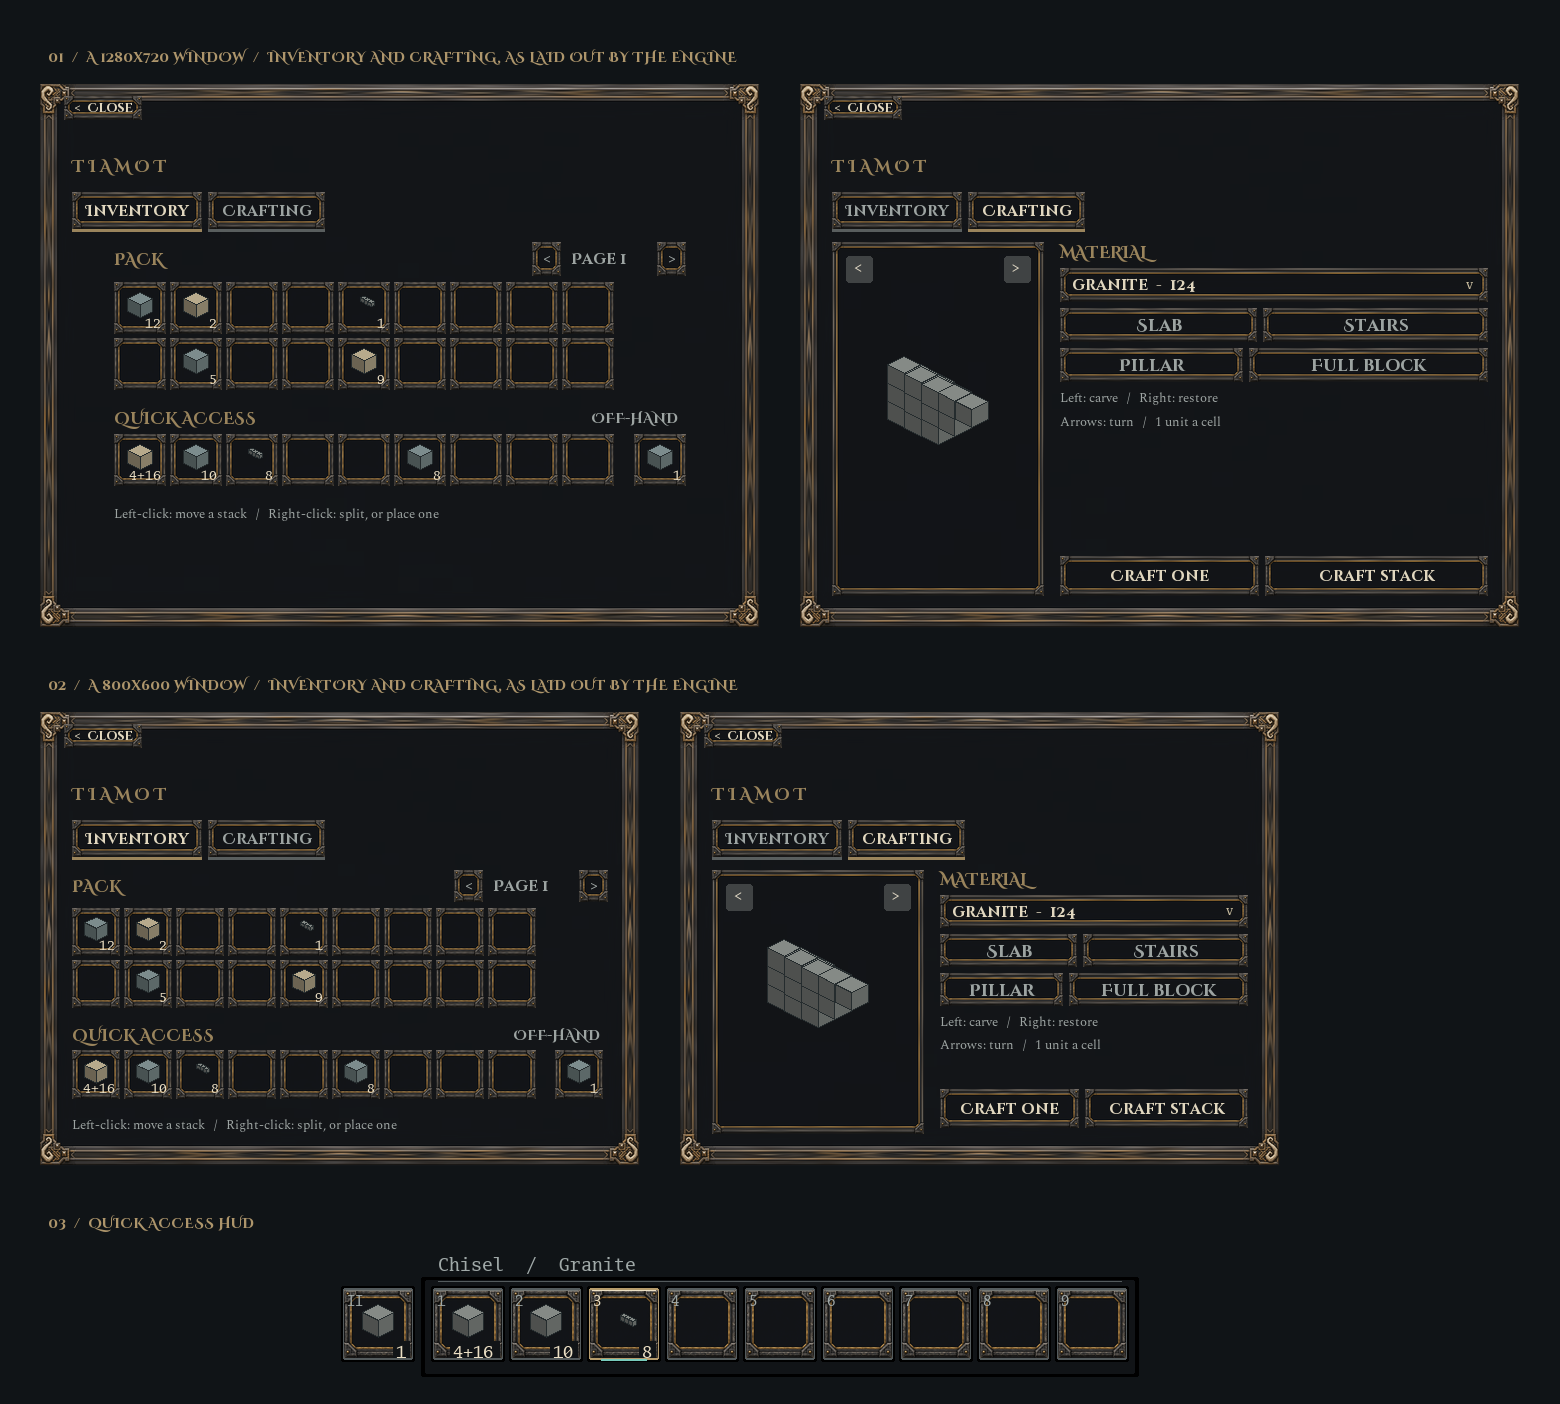
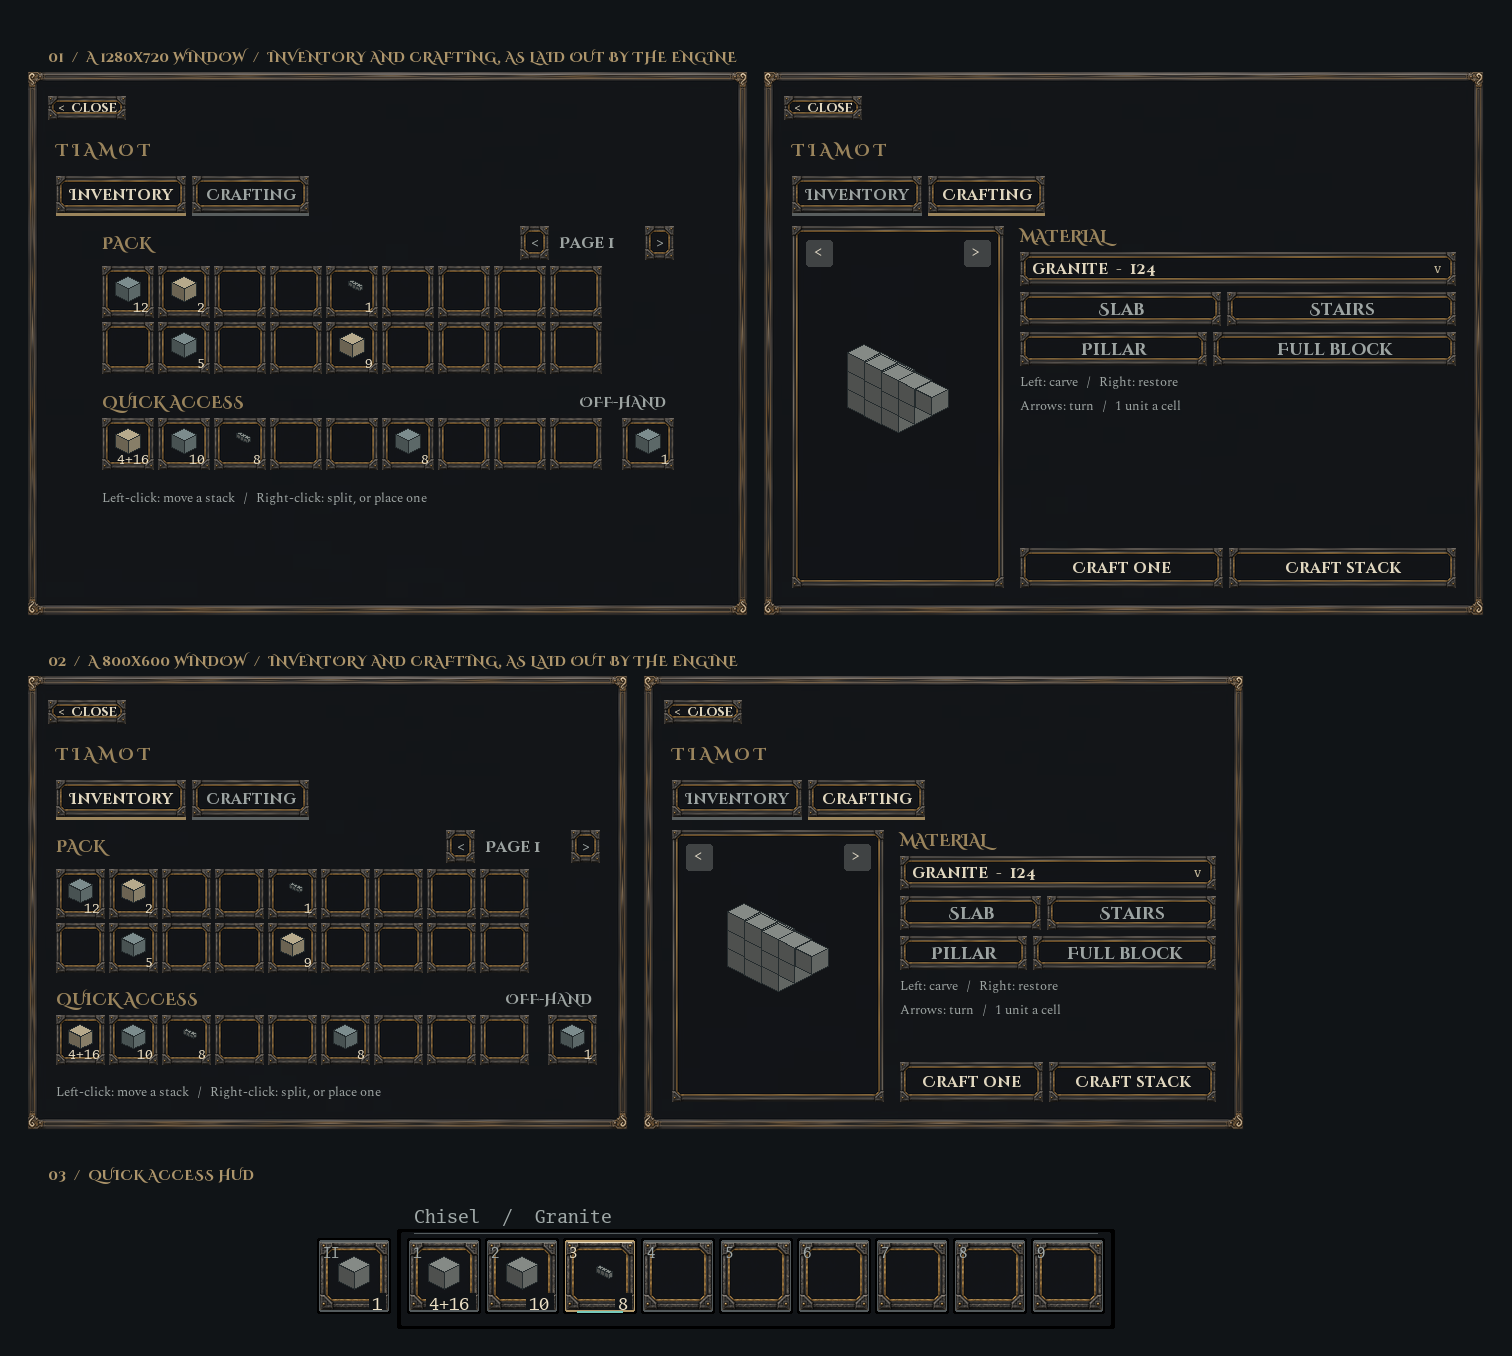
feat: Spectral on chat and prose, and the room the engine's frame gives back
Engine 86dcbb9 landed asks 9, 10 and 11. mod.toml's [theme] names Spectral as
its text_font, so chat, text fields and the engine's own prose are in the text
face and Cinzel keeps headings and buttons. The native check asserts it.

The engine now draws every frame 18 points deep, whatever the art's
resolution, and keeps a sheet's contents inside that border, so the bar and
the engine's screens are off the trim. That costs the room 24 points each
way, and frame_padding, which was 24 only to escape the trim, is now 8, so
the screens are roomier than before. The check lays screens into the new
room, and the preview draws the frame at its new depth.

Ask 9's other half, descriptions a size down, did not land and is open as 12.
Both copies of the asks sheet say so.

Changed region(s): [[0.0, 0.031, 0.9947, 0.8363], [0.1865, 0.8982, 0.746, 0.9912], [0.0622, 0.8673, 0.1554, 0.8982]]

diff --git a/tools/render_preview.py b/tools/render_preview.py
@@ -37,6 +37,7 @@ MONO = str(ENGINE / 'crates/client/assets/third-party/go-font/Go-Mono.ttf')
 textures = {h: Image.open(ROOT / p).convert('RGB') for h, p in data['textures'].items()}
 
 MARGIN, GAP, BAR = 48, 56, 36
+FRAME_BORDER = 18  # client::panel's, whatever the art's resolution
 screens = data['screens']
 W = MARGIN * 2 + GAP + 2 * screens[0]['room'][0]
 H = MARGIN + sum(BAR + 44 + s["room"][1] + GAP for s in screens) + 190
@@ -78,8 +79,9 @@ def shape(x, y, w, h, mask):
                     cube(cx + (xx - z) * s * .49, cy + (xx + z) * s * .245 - yy * s * .53, s)
 
 
-def frame(hash_, x, y, w, h, sliced=True):
-    """A nine-slice, or the whole image: the corners are the outer third."""
+def frame(hash_, x, y, w, h, sliced=True, border=None):
+    """A nine-slice, or the whole image: the corners are the outer third,
+    drawn `border` pixels deep if given, or at the art's own size."""
     source = textures[hash_]
     x, y, w, h = map(round, (x, y, w, h))
     if w < 2 or h < 2:
@@ -87,7 +89,8 @@ def frame(hash_, x, y, w, h, sliced=True):
     if not sliced:
         im.paste(source.resize((w, h), Image.Resampling.LANCZOS), (x, y))
         return
-    ex, ey = min(source.width / 3, w / 2), min(source.height / 3, h / 2)
+    ex, ey = (border or source.width / 3), (border or source.height / 3)
+    ex, ey = min(ex, w / 2), min(ey, h / 2)
     xs, ys, uv = [0, ex, w - ex, w], [0, ey, h - ey, h], [0, 1 / 3, 2 / 3, 1]
     for row in range(3):
         for column in range(3):
@@ -179,15 +182,13 @@ def sheet(x, y, w, h):
     """The engine's own chrome around a screen, wearing mod.toml's [theme]:
     the ornate frame around the whole sheet, the iron frame on Close.
 
-    The frame goes where the client paints it: the window's content expanded
-    by egui's window margin, so its outer edge is about 8 pixels from the
-    room. Drawn any further out, the preview hides the trim the bar and the
-    engine's own screens are sitting on (engine ask 10)."""
-    left, top, right, bottom = x - 8, y - BAR - 8, x + w + 7, y + h + 7
+    The frame goes where the client paints it: FRAME_BORDER (18) deep, its
+    art scaled to that depth, around contents inset by the same 18."""
+    left, top, right, bottom = x - 20, y - BAR - 20, x + w + 19, y + h + 19
     d.rectangle((left, top, right, bottom), fill='#131619')
-    frame(THEMED['ornate-panel.png'], left, top, right - left, bottom - top)
-    frame(THEMED['iron-slot.png'], x + 16, y - BAR + 4, 78, 24)
-    d.text((x + 26, y - BAR + 8), '<  Close', font=font(12, DISPLAY), fill='#e1d7bf')
+    frame(THEMED['ornate-panel.png'], left, top, right - left, bottom - top, border=FRAME_BORDER)
+    frame(THEMED['iron-slot.png'], x, y - BAR + 4, 78, 24)
+    d.text((x + 10, y - BAR + 8), '<  Close', font=font(12, DISPLAY), fill='#e1d7bf')
 
 
 top = MARGIN

diff --git a/tests/native/src/main.rs b/tests/native/src/main.rs
@@ -759,14 +759,21 @@ impl ui::Measure for Ruler {
 /// The room a screen gets in a window `w` by `h` points: the client's
 /// `panel::size_clear_of` with this mod's HUD reserve (converted from the
 /// HUD's 1080-tall canvas as `panel::reserve_points` does), less the sheet's
-/// margins and its bar with Close on it.
+/// margins and its bar with Close on it. A framed sheet's margin is the
+/// client's `FRAME_BORDER`, 18 points a side where egui's own is 6, so a
+/// themed sheet has 24 fewer each way than a plain one.
 fn room(w: f32, h: f32) -> (i32, i32) {
     let reserve = (HUD_RESERVE / 1080.0 * h).clamp(0.0, h / 2.0);
     let height = (h * 0.75).min(h - reserve).max(120.0);
     let width = (height * 4.0 / 3.0).min(w * 0.9).max(160.0);
     let height = (width * 3.0 / 4.0).min(height).max(120.0);
-    ((width - 16.0) as i32, (height - 48.0) as i32)
+    ((width - 16.0 - FRAMED) as i32, (height - 48.0 - FRAMED) as i32)
 }
+
+/// What a themed sheet's frame takes from each dimension beyond egui's own
+/// margin: `2 * (FRAME_BORDER - 6)`. This mod declares a frame, so every
+/// sheet it draws is framed.
+const FRAMED: f32 = 24.0;
 
 /// config.lua's `hud_reserve`, checked against what the mod registers in
 /// `the_look_is_declared`.
@@ -862,11 +869,18 @@ fn the_look_is_declared() {
     let dir = mod_dir();
     let manifest = tiamot_core::modload::ModManifest::load(&dir).expect("mod.toml loads and validates");
     let theme = manifest.theme.expect("mod.toml declares a [theme]");
-    for (what, file) in [("font", &theme.font), ("sheet", &theme.sheet), ("button", &theme.button)] {
+    for (what, file) in [
+        ("font", &theme.font),
+        ("text_font", &theme.text_font),
+        ("sheet", &theme.sheet),
+        ("button", &theme.button),
+    ] {
         let file = file.as_deref().unwrap_or_else(|| panic!("the theme names no {what}"));
         assert!(dir.join(file).is_file(), "the theme's {what} is not a file: {file}");
     }
     assert_eq!(theme.sheet.as_deref(), Some("textures/ornate-panel.png"));
+    // Chat and the engine's prose in the face hints are drawn in, not Cinzel.
+    assert_eq!(theme.text_font.as_deref(), Some("fonts/Spectral-Regular.ttf"));
     let c = &theme.colours;
     for (what, colour) in [
         ("text", &c.text),

diff --git a/docs/engine-asks.md b/docs/engine-asks.md
@@ -10,86 +10,21 @@ What the inventory has needed from the engine, found by building it. Each entry
 says what was seen, why the mod cannot fix it, and the smallest engine change
 that would. Newest first. Items are removed when they land.
 
-## 11. Resting widgets wear a faint outline, and a text field is not the sheet (2026-09-18)
+## 12. Descriptions a size down (2026-09-18, split from 9)
 
-**Seen, in the window.** Under this theme a text field cannot be found: the
-chat input, and a mod's `text_input` (`dialog.rs`).
-`Theme::apply` sets `extreme_bg_color`, the fill behind a text field, to
-`background`, which is the sheet's own fill, and egui's resting widgets have no
-stroke, so the field is the sheet. Tick boxes, dropdowns, sliders and the
-unframed glyph buttons in a dialog (`dialog.rs`, the shape editor's arrows)
-are only a shade apart from the sheet and read as text, not controls. Buttons
-that wear the theme's `button` frame are fine; the rest should match them.
+**Seen, in the window.** The start screen's secondary lines ("Nothing found
+yet. A world has to be opened to the LAN to appear here.", "Each world keeps
+its own selection…", a mod's description) are drawn at full body size, the
+same as the controls they describe, so a page reads as one undifferentiated
+block. They are the `ui.weak(...)` calls: ten in `front.rs`, two in
+`main.rs`.
 
-**Smallest change, and no sixth colour.** In `apply`, when `accent` is set:
-`widgets.inactive.bg_stroke` and `widgets.noninteractive.bg_stroke` become a
-1-point stroke in `accent`. When `button` is set, `extreme_bg_color` takes
-`button` rather than `background`, so a field is a shade above the sheet.
-Hovered and active keep their own strokes. This mod's accent is `#5c4c30`, a
-dark brass that is just visible on `#131619`: subtle, as asked for.
-`noninteractive.bg_stroke` also draws egui's separators, which would then be
-brass too, and that is wanted.
+Asked as the second half of 9. `86dcbb9` landed the first half, `text_font`,
+and these lines are in Spectral now, but still at body size.
 
-## 10. A themed sheet's contents clear its frame (2026-09-18)
-
-**Seen, in the window.** Text on the engine's own screens runs onto the ornate
-trim, and so does every sheet's bar, Close included. `panel::sheet_with`
-paints the frame at `ui.max_rect().expand(window_margin)`, so content starts
-about 6 points inside the frame's outer edge. A frame's border is a third of
-its image: 36 points for `ornate-panel.png`, whose trim runs about 18 points
-deep along the sides and 20 into the corners. The inventory's body is clear
-only because it pads itself by 24; the bar above it is not, and nothing on the
-pause, settings and start screens is.
-
-**Why the mod cannot fix it.** The frame's placement and the margin are the
-client's. Thinner art would need a trim under 6 points deep.
-
-**Smallest change.** With a frame, the content (bar and body) starts a whole
-border inside the frame's outer edge: paint the frame at
-`max_rect().expand(border)` rather than `expand(window_margin)`, where `border`
-is the same third `paint_nine_slice` draws at, and have `size_clear_of` and
-`origin_clear_of` leave that much around the sheet so the frame stays inside
-the window and above the HUD reserve. With no frame, nothing changes.
-
-**Please grow the frame outward rather than shrinking the room.** The
-inventory fits 800x600 with less than 12 points to spare. Taking 30 a side out
-of the room breaks it (measured with the native check). If the room must
-shrink, say by how much: this mod pads its tree by 24 (`frame_padding`) only to
-clear the trim, and would give most of that back once the engine clears it.
-
-## 9. A theme's second face, for text read as sentences (2026-09-18)
-
-**Seen.** `[theme] font` is one face, and `client::theme::Theme::apply` puts it
-on every egui text style. This mod's face is Cinzel Decorative, a display
-capital: right for the pause screen's buttons and a sheet's title, and hard
-reading in chat, a text field, or a settings page's descriptions. Chat is the
-worst case: `draw_chat` in `client/src/main.rs` uses the default text style, so
-every line anyone says is drawn in small capitals over the world. The theme
-also takes the client's own face away from a dialog widget that names no font,
-which the mod has worked around by naming its text face on every hint.
-
-**Why the mod cannot fix it.** Chat is the client's and runs no Lua, which is
-right. The manifest's `Theme` is `deny_unknown_fields`, so the mod has no way to
-name a second face.
-
-**Smallest change.** An optional `text_font` in `[theme]` (the name is yours),
-pushed and fetched exactly as `font` is. When it is set, `apply` puts it on
-`Body`, `Small` and `Monospace`, and `font` keeps `Heading` and `Button`; chat,
-text fields and the settings pages' prose come out in the text face. When it is
-not set, nothing changes. This mod would declare
-`text_font = "fonts/Spectral-Regular.ttf"`, which it already ships and
-registers as `tiamot_default_ui:text` (261 KB, well under `MAX_FONT_BYTES`).
-Optionally, a dialog widget that names no font could follow `text_font` too,
-so another mod's tab reads the same without naming it.
-
-**Descriptions a size down.** Reported from the window alongside this: the
-start screen's secondary lines ("Nothing found yet. A world has to be opened
-to the LAN to appear here.", "Each world keeps its own selection…", a mod's
-description) are drawn at full body size. They are the `ui.weak(...)` calls:
-ten in `front.rs`, two in `main.rs`. Drawing them in `TextStyle::Small`, with
-`Small` set to about 85% of `Body` rather than egui's much smaller default,
-would set them apart as notes. That is a client change whatever the theme,
-and with `text_font` set they would be in the text face too.
+**Smallest change.** Draw them in `TextStyle::Small`, with `Small` set to about
+85% of `Body` rather than egui's much smaller default. A client change whatever
+the theme; a mod cannot reach these lines.
 
 ## Watched, not asked: Life's status tray and narrow windows (2026-09-18)
 
@@ -110,7 +45,20 @@ rectangle rather than a bottom band (a HUD saying "keep clear of the bottom
 right, 150 by 360"), with sheets narrowing before they overlap it. The mod
 cannot move a sheet itself.
 
-Open: 9, 10 and 11. Landed so far, all asserted by the native check:
+Open: 12. Landed so far, asserted by the native check except 11, which is the
+client's own drawing:
+
+- **9**, a theme's second face (engine 86dcbb9): `[theme] text_font` is
+  Spectral, on chat, text fields and prose, and `font` keeps Cinzel on
+  headings and buttons. Its other half is 12, above.
+- **10**, a themed sheet's contents clear its frame (86dcbb9): not as asked.
+  The engine draws every frame `FRAME_BORDER` (18) points deep whatever the
+  art's resolution, and insets the contents by the same, so each dimension of
+  the room is 24 smaller. `frame_padding` went from 24 to 8, so the screens
+  have more room than before, and the native check and preview use the new
+  margin.
+- **11**, a faint outline on resting widgets and a text field a shade above the
+  sheet (86dcbb9).
 
 - **5**, a container measures a child by the `size` it asked for (engine
   26b87d8), and **6**, a screen claims its height once and no longer scrolls

diff --git a/docs/artwork.md b/docs/artwork.md
@@ -36,8 +36,8 @@ License, each with its licence beside it:
   is lowercase where Cinzel's is small capitals.
 
 The mod registers them as `tiamot_default_ui:display` and `tiamot_default_ui:text`
-and selects them through `style.font`. `[theme] font` is Cinzel, so the engine's
-own screens, chat included, draw everything in it, and a widget that names no
-font does too. That is why hints name the text face. Chat cannot yet be given
-Spectral: see ask 9 in `docs/engine-asks.md`. A client that cannot load a font
-uses the engine's fallback.
+and selects them through `style.font`. `[theme] font` is Cinzel and `[theme]
+text_font` is Spectral, so the engine's own screens put headings and buttons
+in Cinzel and chat, text fields and prose in Spectral. Hints name the text face
+themselves, so they read the same on any client. A client that cannot load a
+font uses the engine's fallback.
